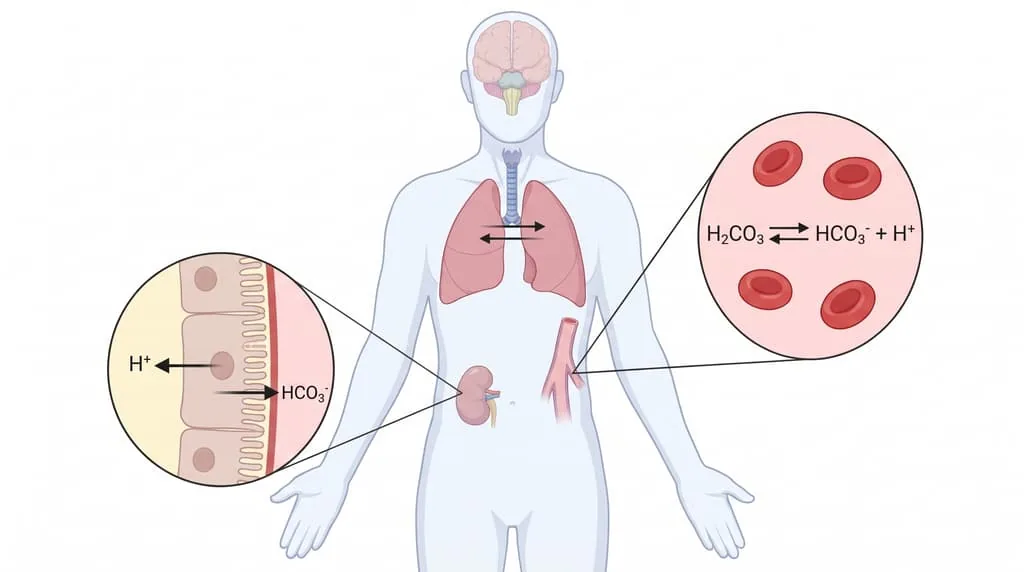
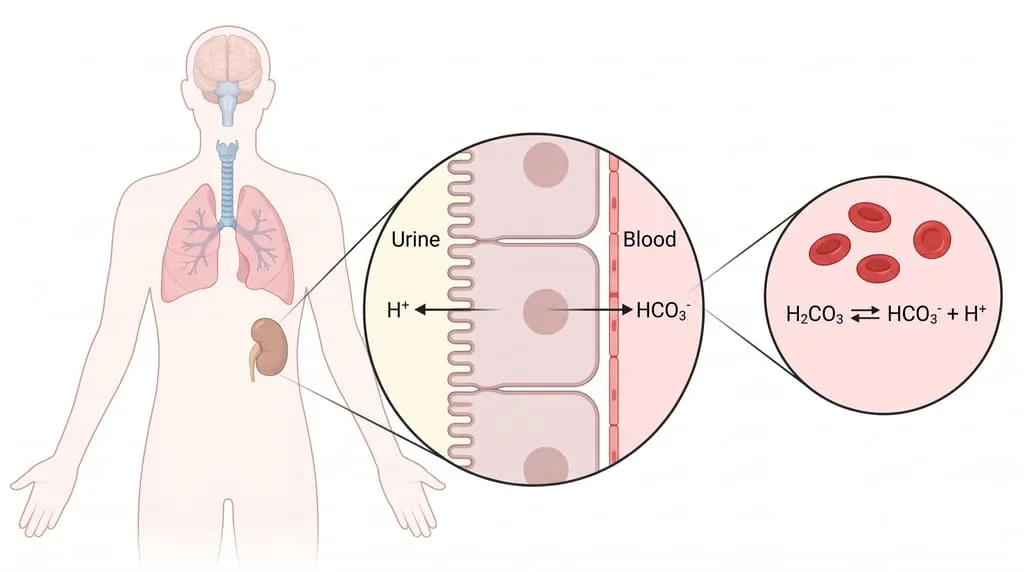
Renal batch: regenerated pH and DKA plates; hotspot and alt-text updates
Claude-Session: https://claude.ai/code/session_01CMoRt9j7AKk9qpoDyskebV

diff --git a/acid-base/index.html b/acid-base/index.html
@@ -938,8 +938,8 @@ var VK = (function(){
 VK.init({
  chips: [['learn-urine', 'nephron'], ['learn-ratio', 'ph', 'Three defences of pH: tap each']],
  plates: {
-  ph: {t: 'Three defences of pH', src: '/media/acid-base/ph-defences.webp', alt: 'A body outline: the brainstem, the lungs with air moving in and out, a zoom of a kidney tubule cell secreting hydrogen ions into the urine and returning bicarbonate to the blood, and a zoom of blood with the carbonic acid and bicarbonate buffer.', cap: 'Tap a numbered site: how fast each defence acts.', src2: 'Berend 2014 and Yee 2022 (this tool\'s sources); schematic.',
-   hot: [[50, 16.5, 'Brainstem', 'brain'], [50, 41.7, 'Lungs', 'lung'], [19.5, 64, 'Kidney tubule', 'kid'], [78, 40.8, 'Blood buffer', 'buf']]},
+  ph: {t: 'Three defences of pH', src: '/media/acid-base/ph-defences.webp', alt: 'A body outline with the brainstem, trachea, lungs and one kidney; a zoom of kidney tubule cells with the brush border facing the urine, hydrogen ions secreted into the urine and bicarbonate returned to the blood; and a zoom of blood with red cells and the carbonic acid and bicarbonate buffer.', cap: 'Tap a numbered site: how fast each defence acts.', src2: 'Berend 2014 and Yee 2022 (this tool\'s sources); schematic.',
+   hot: [[22.5, 17.5, 'Brainstem', 'brain'], [19, 42, 'Lungs', 'lung'], [50.8, 70, 'Kidney tubule cell', 'kid'], [84, 64.7, 'Blood buffer', 'buf']]},
   nephron: {t: 'The nephron, segment by segment', src: '/media/acid-base/nephron-segments.webp', alt: 'One nephron, segment by segment: glomerulus, proximal convoluted tubule, thin descending and ascending limbs, thick ascending limb with the macula densa, distal convoluted tubule, connecting tubule, and cortical and medullary collecting duct.', cap: 'Tap a numbered segment: where bicarbonate is reclaimed and where acid is excreted.', src2: 'Standard renal physiology; schematic.',
    hot: [[35.2, 34.7, 'Proximal tubule', 'pt'], [70.1, 38, 'Collecting duct: intercalated cells', 'ccd'], [70.1, 78, 'Medullary collecting duct', 'mcd']]}
  },

diff --git a/dka/index.html b/dka/index.html
@@ -1077,8 +1077,8 @@ var VK = (function(){
 VK.init({
  chips: [['learn-switch', 'body', 'DKA in the body: tap each organ']],
  plates: {
-  body: {t: 'DKA in the body', src: '/media/dka/dka-body.webp', alt: 'A body outline with the brain, lungs, liver, pancreas with a zoom of an islet, abdominal fat, kidneys and bladder, thigh muscle, and a central blood vessel carrying glucose and ketone bodies.', cap: 'Tap a numbered organ: its part in DKA.', src2: 'Lines from this tool\'s insulin switch, potassium and osmotic diuresis figures and its Why notes; lung, pancreas and brain lead lines are standard physiology.',
-   hot: [[50, 9.5, 'Brain', 'brain'], [45.9, 36.5, 'Lungs', 'lung'], [46.9, 48.6, 'Liver', 'liver'], [68.8, 48.6, 'Pancreas: islet', 'panc'], [52.2, 58.2, 'Fat', 'fat'], [45.9, 66.8, 'Kidney', 'kid'], [44.4, 89.4, 'Muscle', 'mus']]}
+  body: {t: 'DKA in the body', src: '/media/dka/dka-body.webp', alt: 'A body outline with the brain, trachea and lungs, heart and aorta, liver, pancreas with a zoom of an islet, abdominal fat, kidneys with ureters and bladder, and a thigh muscle.', cap: 'Tap a numbered organ: its part in DKA.', src2: 'Lines from this tool\'s insulin switch, potassium and osmotic diuresis figures and its Why notes; lung, pancreas and brain lead lines are standard physiology.',
+   hot: [[50, 6, 'Brain', 'brain'], [47.9, 26, 'Lungs', 'lung'], [47.1, 34, 'Liver', 'liver'], [39.6, 37.6, 'Pancreas: islet', 'panc'], [53.5, 49, 'Fat', 'fat'], [46.7, 42, 'Kidney', 'kid'], [46.9, 61.2, 'Muscle', 'mus']]}
  },
  hot: {
   brain: function(){ return '<p>Drowsiness tracks how high the osmolality and how severe the acidosis are. Cerebral edema is rare in adults with DKA.</p><p><b>HHS or mixed:</b> ' + WHY.osm + '</p>'; },
